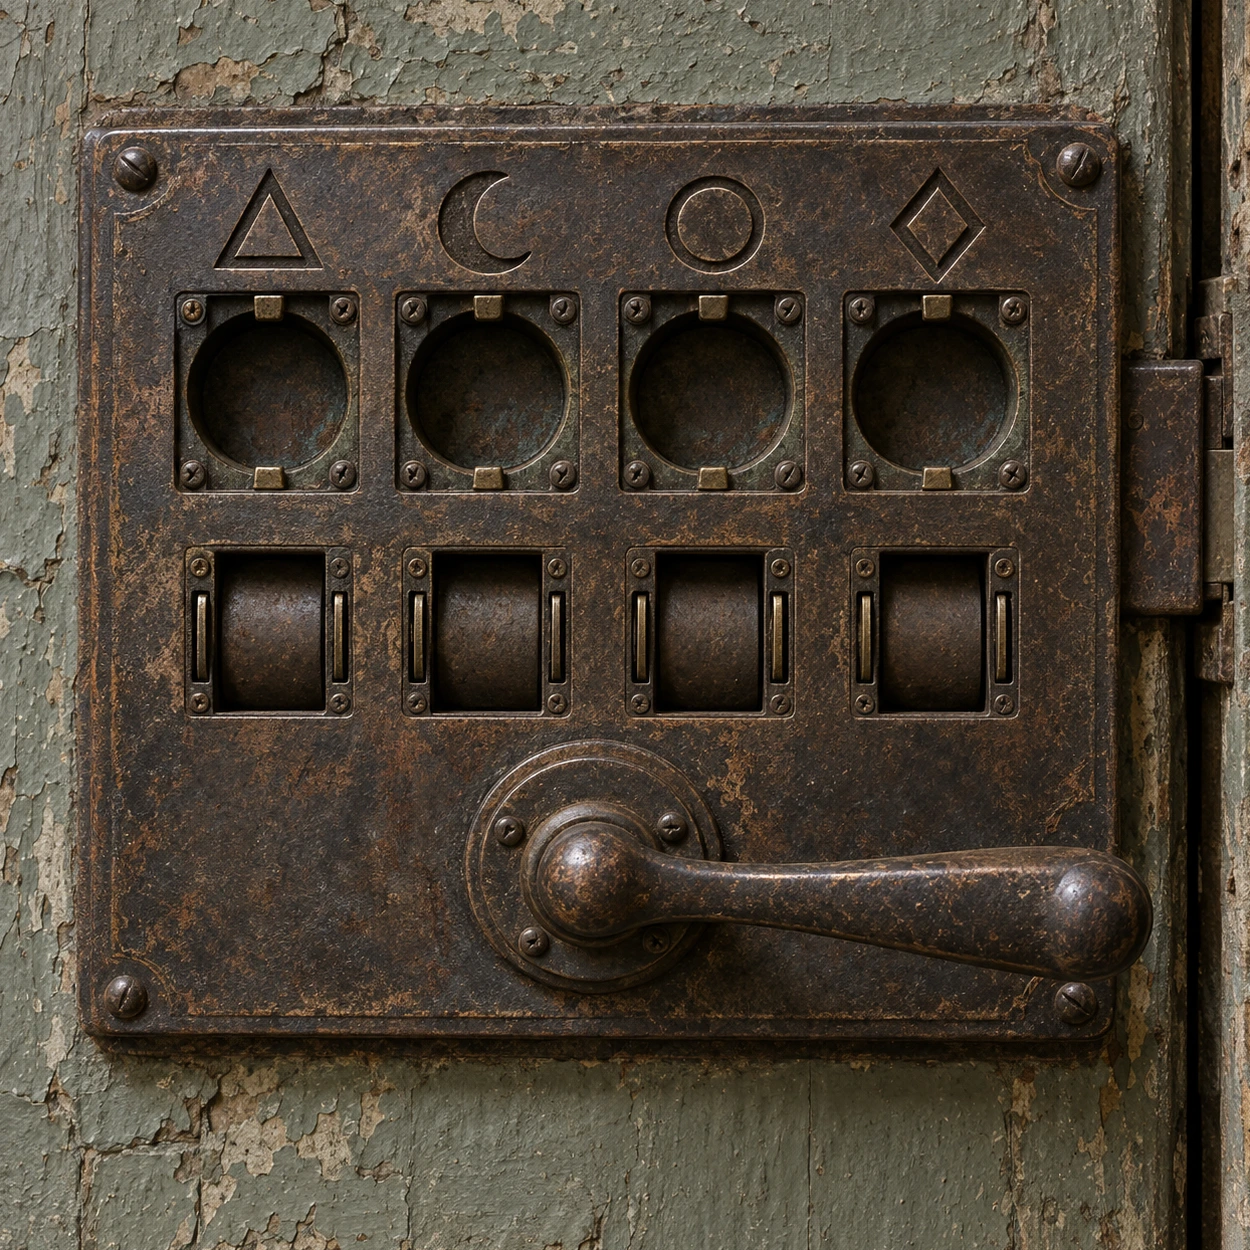
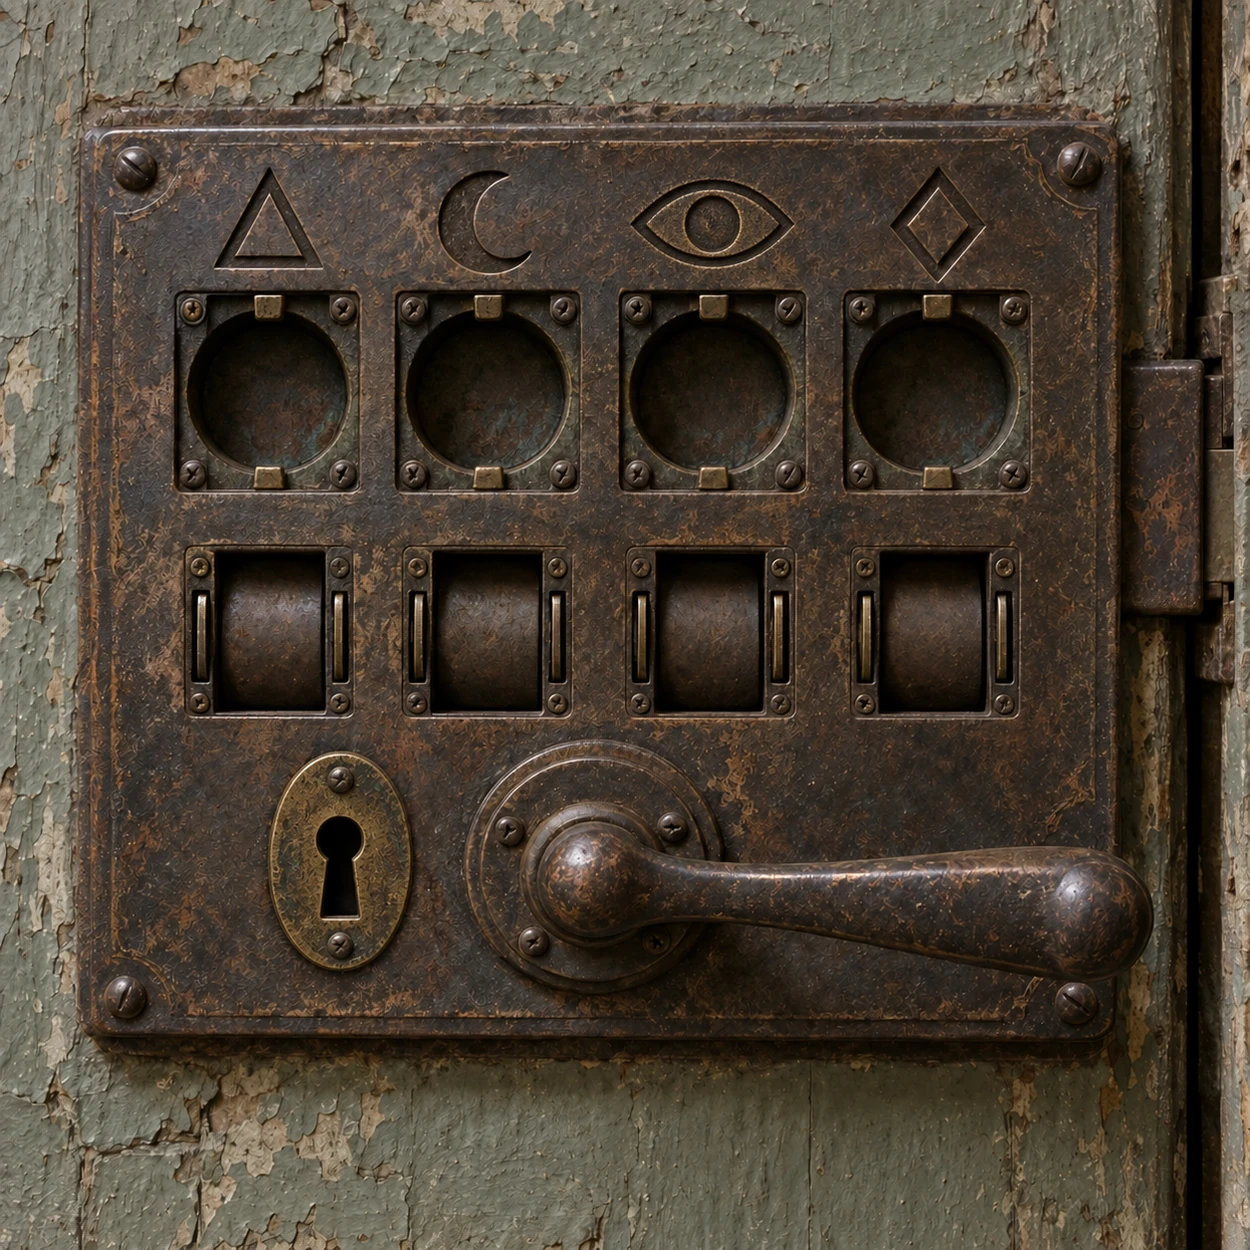
fix: 帰室の紙を固定し小箱の鍵取得と最後の眼の刻印を修正

diff --git a/src/data.ts b/src/data.ts
@@ -65,6 +65,7 @@ export const ITEMS: Record<string, Item> = {
   },
   seal3: { id: 'seal3', name: '眼の銘板', icon: '○', back: '9' },
   seal4: { id: 'seal4', name: '角の銘板', icon: '△', back: '2' },
+  exitKey: { id: 'exitKey', name: '扉の鍵', icon: '⚿', description: '黒ずんだ鉄の鍵。' },
 };
 export const PUZZLES: Record<string, Puzzle> = Object.fromEntries(
   (
@@ -339,7 +340,7 @@ export const PUZZLES: Record<string, Puzzle> = Object.fromEntries(
         reward: 'seal4',
         motif: 'final-balance',
         hints: [
-          '棚の裏に、新しい式がある。',
+          '棚の裏の紙に、四つの式がある。',
           '○−△=2、□=○+△、◇+△=○、合計は10。',
           '○=3、△=1、□=4、◇=2。',
         ],
@@ -353,6 +354,7 @@ export const PUZZLES: Record<string, Puzzle> = Object.fromEntries(
         initial: [],
         glyphs: true,
         requires: ['r4-balance'],
+        reward: 'exitKey',
         hints: [
           '机に残った紙と、最初の部屋の額を。',
           '初めの四つに、紙の四つを続ける。',
@@ -368,11 +370,12 @@ export const PUZZLES: Record<string, Puzzle> = Object.fromEntries(
         initial: [0, 0, 0, 0],
         modulus: 10,
         requires: ['r4-memory'],
+        item: 'exitKey',
         motif: 'seals',
         hints: [
-          '四枚の銘板を裏返す。',
+          '小箱の鍵を扉へ。四枚の銘板を裏返す。',
           '扉の並びは、角・月・眼・滴。',
-          '△=2、☾=6、○=9、◇=4。2694。',
+          '角=2、月=6、眼=9、滴=4。2694。',
         ],
       },
     ] satisfies Puzzle[]
@@ -538,11 +541,11 @@ export const ROOMS = [
       ],
       [
         puzzle('r4-balance', '棚の四つの秤', 29, 22, 42, 56),
-        clue('r4-equations', '棚の裏の刻印', 'equations', 70, 60, 17, 17, 'r4-gears'),
+        clue('r4-equations', '棚の裏の紙', 'equations', 70, 60, 17, 17),
       ],
       [
         puzzle('r4-gears', '机の上の連動輪', 25, 18, 52, 35),
-        clue('r4-paper', '机の引き出しの紙', 'memory', 33, 66, 40, 20, 'r4-balance'),
+        clue('r4-paper', '机の引き出しの紙', 'memory', 33, 66, 40, 20),
         puzzle('r4-power', '電話の下の配電盤', 20, 49, 35, 18),
       ],
       [clue('echo-3', '天井の刻印', 'echo', 35, 36, 30, 25, 'r4-power')],

diff --git a/tests/engine.test.ts b/tests/engine.test.ts
@@ -182,6 +182,46 @@ describe('complete progression', () => {
 });
 
 describe('save recovery', () => {
+  it.each([1, 2])(
+    'previous version %s can collect the newly supplied box key and finish',
+    (version) => {
+      const before = {
+        ...freshGame(),
+        version,
+        started: true,
+        room: 3,
+        unlocked: 3,
+        solved: ['r4-power', 'r4-gears', 'r4-balance', 'r4-memory'],
+        opened: ['r4-memory'],
+        mounted: ['seal1', 'seal2', 'seal3', 'seal4'],
+        inventory: ['seal1', 'seal2', 'seal3', 'seal4'],
+      };
+      let s = parseSave(JSON.stringify(before))!;
+      expect(s.collected).not.toContain('exitKey');
+      expect(canAccess(s, PUZZLES['r4-exit'])).toBe(false);
+      s = take(s, 'exitKey');
+      expect(s.inventory).toContain('exitKey');
+      for (const seal of ['seal1', 'seal2', 'seal3', 'seal4']) s = install(s, 'r4-exit', seal);
+      s = install(s, 'r4-exit', 'exitKey');
+      const resumed = parseSave(JSON.stringify(s))!;
+      expect(resumed.inventory).not.toContain('exitKey');
+      expect(resumed.installed).toContain('r4-exit');
+      expect(take(resumed, 'exitKey')).toBe(resumed);
+      expect(leaveRoom(solve(resumed, 'r4-exit', [2, 6, 9, 4])).finished).toBe(true);
+    },
+  );
+  it('the final key is collected only from the unlocked open box in room four', () => {
+    const locked = { ...freshGame(), room: 3, unlocked: 3 };
+    expect(take(locked, 'exitKey')).toBe(locked);
+    const solved = { ...locked, solved: ['r4-memory'] };
+    expect(take(solved, 'exitKey')).toBe(solved);
+    const open = openContainer(solved, 'r4-memory');
+    expect(open.inventory).not.toContain('exitKey');
+    expect(take({ ...open, room: 2 }, 'exitKey').inventory).not.toContain('exitKey');
+    const taken = take(open, 'exitKey');
+    expect(taken.inventory).toEqual(['exitKey']);
+    expect(take(taken, 'exitKey')).toBe(taken);
+  });
   it('migrates automatically awarded legacy items without respawning used items', () => {
     const legacy = {
       ...freshGame(),

diff --git a/src/PhotoCloseup.tsx b/src/PhotoCloseup.tsx
@@ -75,8 +75,9 @@ export function Closeup({
   if (p?.id === 'r2-water' && installed)
     photo = statePhoto('r2-water', `levels/${values.join('-')}`);
   if (p?.id === 'r3-overlay' && !opened) photo = statePhoto(p.id, 'base');
-  if (p?.id === 'r4-exit' || node.id === 'r4-sockets') photo = statePhoto('r4-exit', 'base');
-  if (p?.id === 'r4-memory' && opened) photo = '/images/rooms/04-return/states/box-open.webp';
+  if (p?.id === 'r4-exit') photo = statePhoto('r4-exit', installed ? 'installed' : 'base');
+  if (p?.id === 'r4-memory' && opened)
+    photo = statePhoto('r4-memory', collected ? 'empty' : 'reward');
   if (
     !p &&
     node.kind === 'clue' &&
@@ -166,16 +167,7 @@ export function Closeup({
                 className="photo-hit pull-hit"
                 style={photoRect(conf.pull)}
                 disabled={!solved}
-                aria-label="収納を開ける"
-                onClick={() => onOpen(p.id)}
-              />
-            )}
-            {p.id === 'r4-memory' && (
-              <button
-                className="photo-hit"
-                style={photoRect(conf.pull)}
-                disabled={!solved}
-                aria-label="小箱を開ける"
+                aria-label={p.id === 'r4-memory' ? '小箱を開ける' : '収納を開ける'}
                 onClick={() => onOpen(p.id)}
               />
             )}

diff --git a/tests/photography.test.ts b/tests/photography.test.ts
@@ -10,6 +10,13 @@ it('every selectable photo including all water states exists', () => {
   for (const path of photographPaths())
     expect(existsSync(resolve('public', '.' + path)), path).toBe(true);
 });
+it('帰室の二枚の紙は他の謎の進行で白紙から書き換わらない', () => {
+  for (const id of ['r4-equations', 'r4-paper']) {
+    const node = ROOMS[3].views.flat().find((n) => n.id === id)!;
+    expect(node.gate).toBeUndefined();
+    expect(detailPhoto(3, node)).toBe(`/images/clues/${id}.webp`);
+  }
+});
 it('参照されない写真や候補を配信フォルダに残さない', () => {
   const walk = (p: string): string[] =>
     readdirSync(p, { withFileTypes: true }).flatMap((d) =>
@@ -38,7 +45,7 @@ it('全24方向と42対象の採用写真・輪郭がそろっている', () => 
       }
     }
 });
-it('14種類の持ち物の表と裏が実在する', () => {
+it('15種類の持ち物の表と裏が実在する', () => {
   for (const id of Object.keys(ITEMS))
     for (const side of ['front', 'back'])
       expect(existsSync(resolve('public/images/items', id, side + '.webp'))).toBe(true);

diff --git a/src/photography.ts b/src/photography.ts
@@ -125,16 +125,13 @@ export const CLOSEUP_FILES: Record<string, string> = {
   'r4-memory': 'box',
   'r4-exit': 'door-lock',
   'r4-sockets': 'door-lock',
-  'r4-paper': 'desk-paper',
 };
 export const detailPhoto = (room: number, node: SceneNode) =>
   STATE_PHOTO_IDS.includes(node.id) || node.id.endsWith('-exit') || node.id === 'r4-sockets'
     ? statePhoto(node.id === 'r4-sockets' ? 'r4-exit' : node.id, 'base')
     : node.kind === 'clue' && node.clue !== 'empty' && !node.gate
       ? `/images/clues/${node.id}.webp`
-      : ['r1-equation', 'r4-equations'].includes(node.id)
-        ? '/images/shared/wall-paper.webp'
-        : `/images/rooms/${ROOM_FOLDERS[room]}/closeups/${CLOSEUP_FILES[node.id] ?? node.id}.webp`;
+      : `/images/rooms/${ROOM_FOLDERS[room]}/closeups/${CLOSEUP_FILES[node.id] ?? node.id}.webp`;
 const OPEN_SHAPES: Record<string, Shape> = {
   'r1-drawer': { bounds: [41, 55, 19, 9], points: '9,0 91,0 100,48 100,100 0,100 0,48' },
   'r1-cabinet': {

diff --git a/src/photoAssets.ts b/src/photoAssets.ts
@@ -26,6 +26,9 @@ export function photographPaths() {
     ])
       paths.add(statePhoto(id, state));
   paths.add(statePhoto('r4-exit', 'base'));
+  paths.add(statePhoto('r4-exit', 'installed'));
+  paths.add(statePhoto('r4-memory', 'reward'));
+  paths.add(statePhoto('r4-memory', 'empty'));
   for (const state of WATER_STATES) paths.add(statePhoto('r2-water', `levels/${state.join('-')}`));
   for (const state of ['reward-detail', 'empty-detail']) paths.add(statePhoto('r2-water', state));
   for (const [group, names] of Object.entries({
@@ -45,7 +48,6 @@ export function photographPaths() {
     '01-waiting/states/south-cabinet-open.webp',
     '02-washroom/states/floor-empty.webp',
     '02-washroom/states/wrench-taken.webp',
-    '04-return/states/box-open.webp',
     '04-return/states/east-box-open.webp',
   ])
     paths.add('/images/rooms/' + path);

diff --git a/src/mechanismPhotos.ts b/src/mechanismPhotos.ts
@@ -100,8 +100,13 @@ export const PHOTO_MECHANISMS: Record<string, MechanismPhoto> = {
     reward: [42, 52, 18, 16],
     openControls: [23, 32.7, 55, 7.7],
   },
-  'r4-memory': { controls: [12, 40, 74, 14], pull: [40, 69, 20, 16], reset: [13, 63, 7, 7] },
-  'r4-exit': { controls: [15, 44, 66, 13], pull: [43, 65, 47, 13] },
+  'r4-memory': {
+    controls: [12, 40, 74, 14],
+    pull: [40, 69, 20, 16],
+    reset: [13, 63, 7, 7],
+    reward: [18, 40, 62, 17],
+  },
+  'r4-exit': { controls: [15, 44, 66, 13], pull: [43, 65, 47, 13], fitting: [22, 64, 10, 13] },
 };
 export const STATE_PHOTO_IDS = [
   'r1-drawer',

diff --git a/src/App.tsx b/src/App.tsx
@@ -417,11 +417,7 @@ export default function App() {
                 <div
                   className="scene-paper last-equation"
                   aria-hidden="true"
-                  style={
-                    game.solved.includes('r4-gears')
-                      ? { backgroundImage: 'url(/images/clues/r4-equations.webp)' }
-                      : undefined
-                  }
+                  style={{ backgroundImage: 'url(/images/clues/r4-equations.webp)' }}
                 />
               )}
               {game.face === 0 && game.solved.includes(`r${game.room + 1}-exit`) && (

diff --git a/src/engine.ts b/src/engine.ts
@@ -287,7 +287,9 @@ export function parseSave(raw: string | null): GameState | null {
       ? [
           ...new Set([
             ...x.inventory,
-            ...x.solved.flatMap((id: string) => (PUZZLES[id]?.reward ? [PUZZLES[id].reward] : [])),
+            ...x.solved.flatMap((id: string) =>
+              id !== 'r4-memory' && PUZZLES[id]?.reward ? [PUZZLES[id].reward] : [],
+            ),
             ...x.installed.flatMap((id: string) => (PUZZLES[id]?.item ? [PUZZLES[id].item] : [])),
           ]),
         ]

diff --git a/src/closeup.css b/src/closeup.css
@@ -131,7 +131,6 @@
   }
 }
 .scene-paper {
-  background-image: url('/images/shared/wall-paper.webp');
   background-size: 130% 130%;
   background-position: center;
   transform: none;

diff --git a/docs/image-prompts.md b/docs/image-prompts.md
@@ -331,3 +331,31 @@ Edit this ceiling photograph with absolutely identical framing, camera, vent, co
 ### ceiling-restored
 
 Edit this lit ceiling photograph. Preserve EXACT camera, fluorescent light already ON, vent, concrete slabs, framing and soft green-brown illumination. Add a small physically scratched clue into the concrete at x28% y67%, entirely inside x21-35%, y60-75%. It consists of tiny Roman numeral IV at top, a concentric double-circle with central dot in the middle, and the digit 3 underneath. Readable worn charcoal-gray incised lines with naturally chipped concrete, not glowing, not a label or plaque, no rectangle or patch edge. Only this little marking changes. The clue must be part of the wall material, unobtrusive but visible under restored light.
+
+## 帰室：固定の手掛かり・小箱の鍵・眼の最終錠（2026-09-18）
+
+内蔵 image_gen を使用。採用先は `mechanisms/r4-memory/{reward,empty}.webp`、`mechanisms/r4-exit/{base,installed}.webp`、`items/exitKey/{front,back}.webp`。旧白紙・旧空箱は削除。透過PNGはアルファを保ったWebPへ変換。
+
+### Door
+
+Use case: precise-object-edit. Edit reference 1, a square photorealistic old escape-game door mechanism. Keep exact framing, camera, textures, four round sockets, four blank number rollers and lever positions. Replace ONLY the THIRD engraved symbol (circle at x57%,y18%) with a recessed almond-shaped EYE with central round pupil, matching the eye design on reference 2. Keep triangle, crescent and diamond unchanged. Also add one modest authentic antique keyhole in a tarnished brass oval escutcheon centred at x27%,y70%, about 8% of image wide and 11% high, in the unused metal area LEFT of the existing lever. Keyhole is clearly physically cut metal, key absent. All mechanisms stay same size/location; no text or numbers, no UI. Match subdued aged photographic lighting and surface wear.
+
+### Installed
+
+Use case: precise-object-edit. Reference 1 is edit target: photograph of final bronze door mechanism. Preserve exact square framing, camera, all four top symbols (triangle crescent EYE diamond), sockets, blank drums, lever, metal textures, lighting and every position. Reference 2 is the key to insert. Show this iron skeleton key now physically INSERTED into the keyhole at x27%, y68%, left of lever. Shaft goes into lock perpendicular to plate with appropriate foreshortening, only modest round bow and short shaft visible, bow hanging slightly down. Real contact shadow, no giant floating key, don't alter keyhole escutcheon. Everything except this inserted key remains identical. No extra symbols or text.
+
+### Box
+
+Use case: precise-object-edit. Reference image is edit target, open antique brass-trimmed wooden box. Keep exact square crop, camera, lid, hinges, front and lighting. In its currently empty felt-lined interior at x27% to73%, y43% to54%, place a single clearly visible antique dark iron skeleton key, lying horizontally: round hollow circular bow at LEFT, long straight shaft toward RIGHT, one square stepped tooth at right end pointing down. Key about 44% of frame wide and 9% high, midtone worn iron highlights, authentic contact shadow on interior floor; clearly separate from lid/front trim and visible on smartphone. Change nothing else, no other object, no text, no overlay, realistic photograph.
+
+### Empty
+
+Use case: precise-object-edit. Edit the provided box photograph: remove ONLY the iron key from the box interior and reconstruct the same aged dark brown felt floor beneath it. Empty open box. Preserve exact camera, crop, lighting, all edges, lid, hinges, highlights, front panel, wear, dimensions, colours and all other pixels as closely as possible. This is the after-pickup state of the identical game scene. No other changes.
+
+### Key
+
+Use case: product-mockup. Create inventory item photo of EXACT SAME antique iron skeleton key shown in reference box. Isolate only key on genuinely TRANSPARENT background, no box/felt, no opaque background. Single key horizontal, hollow round circular bow on LEFT, straight cylindrical long shaft extending RIGHT with collar next to bow and a single rectangular stepped tooth extending down at right end. Match exact shape, worn black-brown iron with muted metal highlights. Entire key inside frame with ample transparent margin, centred, fills 80% width. Square canvas, orthographic top view, photorealistic. No text, numbers, border or extra items.
+
+### KeyBack
+
+Use case: precise-object-edit. Inventory REVERSE SIDE photo of the exact antique iron key in reference: turn the key over to show its other face, maintaining a horizontal orientation with hollow round bow on LEFT and shaft extending RIGHT, rectangular stepped tooth now extends UP at right end. Same proportions, size, square framing, lighting, worn dark iron texture. Genuine transparent alpha background throughout, no opaque backdrop, no letters/numbers/markings or added objects. Render only the single key.

diff --git a/docs/walkthrough.md b/docs/walkthrough.md
@@ -33,14 +33,14 @@
 1. 左の壁の配電盤。初期状態から、上段左端、二段目左から3番目、三段目左から2番目、下段両端を押す。通電すると天井へ視点が移り、灯りと⌾の刻印が現れる。下の三角でもとの壁へ戻る。
 2. 上部のⅠ〜Ⅳで全室に戻り天井を読む。部屋順に1・3・5・3。連動輪は自分と右隣が1ずつ進む（最後は最初につながる）。初期状態から1番目を1回、2番目を2回、3番目を3回で一致。
 3. 棚の裏の式は ○−△=2、□=○+△、◇+△=○、合計10。○3・△1・□4・◇2。棚の秤に3142を入力し、角の銘板を取る。
-4. 机の紙は第Ⅰ室の最初の4文字の後に □△☾○ を続ける指示。右の壁の小箱に ☾△□○□△☾○。
-5. 四枚の銘板をそれぞれ裏返す。月6・滴4・眼9・角2。各銘板を選び、対応する窪みへ一枚ずつ設置する。扉の並びは角・月・眼・滴。2694で解錠し、ハンドルを押して脱出。
+4. 机の紙は第Ⅰ室の最初の4文字の後に □△☾○ を続ける指示。右の壁の小箱に ☾△□○□△☾○。箱を開け、中の鉄の鍵を押して拾う。棚の式と机の紙は入室時から同じ内容で、他の謎を解いても書き換わらない。
+5. 正面の扉で鍵を選び、ハンドル左の鍵穴に差す。四枚の銘板をそれぞれ裏返す。月6・滴4・眼9・角2。各銘板を選び、対応する窪みへ一枚ずつ設置する。扉の並びは角・月・眼・滴（第三の刻印は円ではなく眼）。2694で解錠し、ハンドルを押して脱出。
 
 ## 進行の不変条件
 
 - 消費アイテムは取り付け済みとして保存され、再入手を要求しない。
 - レンチは使用後も持ち歩く。その他の部品は設置先に残る。
-- 四枚の銘板は最終扉に設置すると持ち物欄から移る。設置済みの銘板も押して表裏を調べられる。最終錠は全銘板の設置と小箱の解除が必要。
+- 四枚の銘板は最終扉に設置すると持ち物欄から移る。設置済みの銘板も押して表裏を調べられる。最終錠は全銘板の設置と、小箱で取得した鍵の設置が必要。
 - 解いた仕掛けは再ロックされず、報酬を複製しない。
 - 配管は正解配列の一致ではなく、入口から出口まで全セルを通る実際の接続を検証する。
 - 計量槽は水量保存と容量制限に従う。
